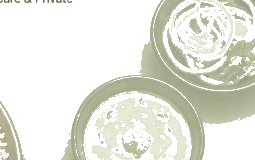
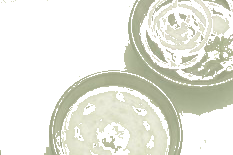
Update food image cropping and enhance SplashPage component logic
- Adjusted cropping parameters for 'food-sides.png' in the image processing script.
- Refactored SplashPage component to separate Google login logic into dedicated functions based on Google Client ID availability.
- Improved error handling and user feedback in the login process.
- Added a fallback for Google Client ID to ensure smoother deployment.

diff --git a/src/pages/SplashPage.tsx b/src/pages/SplashPage.tsx
@@ -2,6 +2,7 @@ import { useGoogleLogin } from '@react-oauth/google'
 import { ShieldCheck } from 'lucide-react'
 import { useState } from 'react'
 import { BrandLockup } from '../components/BrandLockup'
+import { hasGoogleClientId } from '../config/auth'
 
 type SplashPageProps = {
   onLoginSuccess: (accessToken: string) => void
@@ -30,7 +31,78 @@ function GoogleIcon() {
   )
 }
 
-export function SplashPage({ onLoginSuccess }: SplashPageProps) {
+type SplashPageViewProps = {
+  loading: boolean
+  error: string | null
+  onLogin: () => void
+  onDismissError: () => void
+}
+
+function SplashPageView({ loading, error, onLogin, onDismissError }: SplashPageViewProps) {
+  return (
+    <div className="shell shell--welcome">
+      <main className="device welcome-page">
+        <section className="welcome-top">
+          <BrandLockup />
+        </section>
+
+        <svg className="welcome-curve" viewBox="0 0 430 48" preserveAspectRatio="none" aria-hidden>
+          <path d="M0 48 C120 8 310 8 430 48 L430 48 L0 48 Z" fill="#dce4d3" />
+        </svg>
+
+        <section className="welcome-bottom">
+          <button type="button" className="google-btn" onClick={onLogin} disabled={loading}>
+            <GoogleIcon />
+            {loading ? 'Signing in…' : 'Continue with Google'}
+          </button>
+
+          <p className="secure-badge">
+            <ShieldCheck size={16} strokeWidth={2.25} />
+            Secure &amp; Private
+          </p>
+
+          <img
+            src="/brand/food-biryani.png"
+            alt=""
+            className="welcome-food welcome-food--left"
+            draggable={false}
+          />
+          <img
+            src="/brand/food-sides.png"
+            alt=""
+            className="welcome-food welcome-food--right"
+            draggable={false}
+          />
+        </section>
+
+        {error && (
+          <div className="login-popup-backdrop" role="presentation" onClick={onDismissError}>
+            <div
+              className="login-popup"
+              role="alertdialog"
+              aria-modal="true"
+              aria-labelledby="login-popup-title"
+              aria-describedby="login-popup-message"
+              onClick={(event) => event.stopPropagation()}
+            >
+              <h3 id="login-popup-title" className="login-popup-title">
+                Sign-in failed
+              </h3>
+              <p id="login-popup-message" className="login-popup-message">
+                {error}
+              </p>
+              <button type="button" className="login-popup-btn" onClick={onDismissError}>
+                OK
+              </button>
+            </div>
+          </div>
+        )}
+      </main>
+    </div>
+  )
+}
+
+function SplashPageWithGoogle({ onLoginSuccess }: SplashPageProps) {
   const [error, setError] = useState<string | null>(null)
   const [loading, setLoading] = useState(false)
 
@@ -57,77 +129,36 @@ export function SplashPage({ onLoginSuccess }: SplashPageProps) {
   }
 
   return (
-    <div className="shell shell--welcome">
-      <main className="device welcome-page">
-        <section className="welcome-top">
-          <BrandLockup />
-        </section>
-
-        <svg className="welcome-curve" viewBox="0 0 430 48" preserveAspectRatio="none" aria-hidden>
-          <path d="M0 48 C120 8 310 8 430 48 L430 48 L0 48 Z" fill="#dce4d3" />
-        </svg>
-
-        <section className="welcome-bottom">
-          <button
-            type="button"
-            className="google-btn"
-            onClick={handleGoogleLogin}
-            disabled={loading}
-          >
-            <GoogleIcon />
-            {loading ? 'Signing in…' : 'Continue with Google'}
-          </button>
-
-          <p className="secure-badge">
-            <ShieldCheck size={16} strokeWidth={2.25} />
-            Secure &amp; Private
-          </p>
-
-          <img
-            src="/brand/food-biryani.png"
-            alt=""
-            className="welcome-food welcome-food--left"
-            draggable={false}
-          />
-          <img
-            src="/brand/food-sides.png"
-            alt=""
-            className="welcome-food welcome-food--right"
-            draggable={false}
-          />
-        </section>
-
-        {error && (
-          <div
-            className="login-popup-backdrop"
-            role="presentation"
-            onClick={() => setError(null)}
-          >
-            <div
-              className="login-popup"
-              role="alertdialog"
-              aria-modal="true"
-              aria-labelledby="login-popup-title"
-              aria-describedby="login-popup-message"
-              onClick={(event) => event.stopPropagation()}
-            >
-              <h3 id="login-popup-title" className="login-popup-title">
-                Sign-in failed
-              </h3>
-              <p id="login-popup-message" className="login-popup-message">
-                {error}
-              </p>
-              <button
-                type="button"
-                className="login-popup-btn"
-                onClick={() => setError(null)}
-              >
-                OK
-              </button>
-            </div>
-          </div>
-        )}
-      </main>
-    </div>
+    <SplashPageView
+      loading={loading}
+      error={error}
+      onLogin={handleGoogleLogin}
+      onDismissError={() => setError(null)}
+    />
   )
+}
+
+function SplashPageWithoutGoogle() {
+  const [error, setError] = useState<string | null>(null)
+
+  const handleGoogleLogin = () => {
+    setError('Google sign-in is not configured for this deployment.')
+  }
+
+  return (
+    <SplashPageView
+      loading={false}
+      error={error}
+      onLogin={handleGoogleLogin}
+      onDismissError={() => setError(null)}
+    />
+  )
+}
+
+export function SplashPage(props: SplashPageProps) {
+  if (hasGoogleClientId) {
+    return <SplashPageWithGoogle {...props} />
+  }
+
+  return <SplashPageWithoutGoogle />
 }

diff --git a/src/main.tsx b/src/main.tsx
@@ -1,16 +1,30 @@
 import { GoogleOAuthProvider } from '@react-oauth/google'
-import { StrictMode } from 'react'
+import { StrictMode, type ReactNode } from 'react'
 import { createRoot } from 'react-dom/client'
 import App from './App.tsx'
 import { PwaPrompts } from './components/PwaPrompts.tsx'
-import { GOOGLE_CLIENT_ID } from './config/auth.ts'
+import { GOOGLE_CLIENT_ID, hasGoogleClientId } from './config/auth.ts'
 import './index.css'
 
-createRoot(document.getElementById('root')!).render(
-  <StrictMode>
-    <GoogleOAuthProvider clientId={GOOGLE_CLIENT_ID}>
-      <App />
+function AppShell({ children }: { children: ReactNode }) {
+  return (
+    <>
+      {children}
       <PwaPrompts />
-    </GoogleOAuthProvider>
-  </StrictMode>,
+    </>
+  )
+}
+
+const app = hasGoogleClientId ? (
+  <GoogleOAuthProvider clientId={GOOGLE_CLIENT_ID}>
+    <AppShell>
+      <App />
+    </AppShell>
+  </GoogleOAuthProvider>
+) : (
+  <AppShell>
+    <App />
+  </AppShell>
 )
+
+createRoot(document.getElementById('root')!).render(<StrictMode>{app}</StrictMode>)

diff --git a/src/components/PwaPrompts.tsx b/src/components/PwaPrompts.tsx
@@ -34,11 +34,15 @@ export function PwaPrompts() {
   const updateSWRef = useRef<(reload?: boolean) => Promise<void>>(() => Promise.resolve())
 
   useEffect(() => {
-    updateSWRef.current = registerSW({
-      onNeedRefresh() {
-        setShowUpdate(true)
-      },
-    })
+    try {
+      updateSWRef.current = registerSW({
+        onNeedRefresh() {
+          setShowUpdate(true)
+        },
+      })
+    } catch {
+      // Service worker unavailable in this environment.
+    }
   }, [])
 
   useEffect(() => {

diff --git a/src/config/auth.ts b/src/config/auth.ts
@@ -1,4 +1,9 @@
-export const GOOGLE_CLIENT_ID = import.meta.env.VITE_GOOGLE_CLIENT_ID as string
+export const GOOGLE_CLIENT_ID = (
+  import.meta.env.VITE_GOOGLE_CLIENT_ID ??
+  '830409557108-a88kdqif6bt5pvv66k9ao5t7om448ur5.apps.googleusercontent.com'
+).trim()
+
+export const hasGoogleClientId = GOOGLE_CLIENT_ID.length > 0
 
 export const AUTH_STORAGE_KEY = 'tbs_google_token'
 
